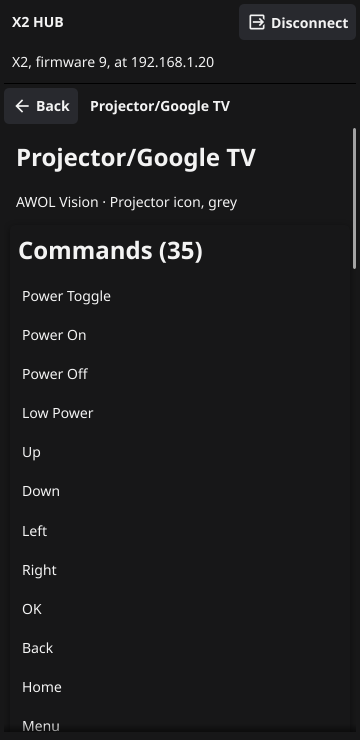
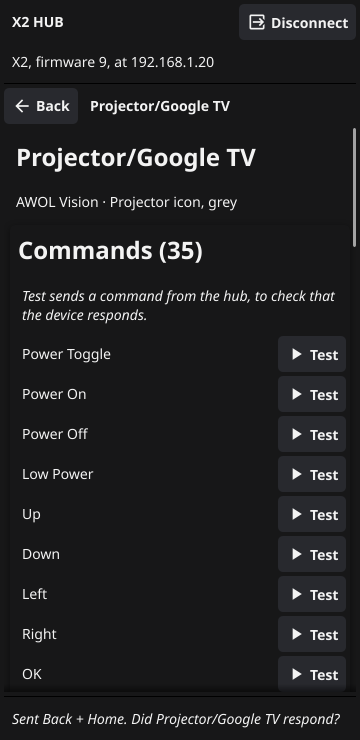
Test a device's commands: send one from the hub (#13)

diff --git a/internal/ui/detail.go b/internal/ui/detail.go
@@ -49,8 +49,8 @@ func activityView(a *profile.Activity) fyne.CanvasObject {
 }
 
 // deviceView shows a device: its commands, keys, power, inputs and
-// macros.
-func deviceView(d *profile.Device) fyne.CanvasObject {
+// macros. With send, each command has a Test button that sends it.
+func deviceView(d *profile.Device, send func(command string)) fyne.CanvasObject {
 	sub := d.Brand
 	if look := describeLook(d.Icon, d.Color); look != "" {
 		if sub != "" {
@@ -60,11 +60,22 @@ func deviceView(d *profile.Device) fyne.CanvasObject {
 	}
 	parts := []fyne.CanvasObject{heading(d.Name, sub)}
 
-	var cmds []string
+	var cmds []fyne.CanvasObject
 	for _, c := range d.Commands {
-		cmds = append(cmds, c.Name)
+		name := wrapped(c.Name)
+		if send == nil {
+			cmds = append(cmds, name)
+			continue
+		}
+		test := widget.NewButtonWithIcon("Test", theme.MediaPlayIcon(), func() { send(c.Name) })
+		cmds = append(cmds, container.NewBorder(nil, nil, nil, test, name))
 	}
-	parts = append(parts, section(fmt.Sprintf("Commands (%d)", len(cmds)), "No commands.", lines(cmds)))
+	if send != nil && len(cmds) > 0 {
+		hint := wrapped("Test sends a command from the hub, to check that the device responds.")
+		hint.TextStyle.Italic = true
+		cmds = append([]fyne.CanvasObject{hint}, cmds...)
+	}
+	parts = append(parts, section(fmt.Sprintf("Commands (%d)", len(d.Commands)), "No commands.", cmds))
 	parts = append(parts, keysSection(d.Buttons))
 
 	var power []fyne.CanvasObject

diff --git a/internal/ui/home.go b/internal/ui/home.go
@@ -256,6 +256,30 @@ func (s *browseScreen) state(r browseRow) string {
 	return ""
 }
 
+// sender sends d's commands from the hub, or is nil while d is not on
+// the hub.
+func (s *browseScreen) sender(d *profile.Device) func(string) {
+	if s.app.work.DeviceState(d) == workspace.New {
+		return nil
+	}
+	return func(command string) {
+		w, c := s.app.work, s.app.client
+		s.setStatus(true, fmt.Sprintf("Sending %s…", command))
+		s.app.async(func() {
+			ctx, cancel := context.WithTimeout(context.Background(), ConnectTimeout)
+			defer cancel()
+			err := w.Send(ctx, c, d.Name, command)
+			fyne.Do(func() {
+				if err != nil {
+					s.setStatus(false, fmt.Sprintf("Could not send %s: %v", command, err))
+					return
+				}
+				s.setStatus(false, fmt.Sprintf("Sent %s. Did %s respond?", command, d.Name))
+			})
+		})
+	}
+}
+
 // selectDevice shows the device named name.
 func (s *browseScreen) selectDevice(name string) {
 	for i, r := range s.rows {
@@ -342,7 +366,7 @@ func (s *browseScreen) content(h backend.Hub) fyne.CanvasObject {
 		case r.activity != nil:
 			s.split.show(r.activity.Name, activityView(r.activity))
 		case r.device != nil:
-			s.split.show(r.device.Name, deviceView(r.device))
+			s.split.show(r.device.Name, deviceView(r.device, s.sender(r.device)))
 		default:
 			s.list.Unselect(i)
 		}

diff --git a/internal/workspace/send_test.go b/internal/workspace/send_test.go
@@ -1,0 +1,46 @@
+package workspace
+
+import (
+	"context"
+	"errors"
+	"testing"
+
+	"github.com/brunoga/armrest/internal/demo"
+	"github.com/brunoga/sofabaton/hub"
+	"github.com/brunoga/sofabaton/hubsim"
+)
+
+func TestSend(t *testing.T) {
+	ctx := context.Background()
+	d, err := demo.Dump()
+	if err != nil {
+		t.Fatal(err)
+	}
+	m, err := d.Model()
+	if err != nil {
+		t.Fatal(err)
+	}
+	c, err := hub.Open(ctx, hubsim.Pipe(hubsim.FromModel(m)), hub.Options{})
+	if err != nil {
+		t.Fatal(err)
+	}
+	defer c.Close()
+	w, err := Read(ctx, c, nil)
+	if err != nil {
+		t.Fatal(err)
+	}
+	if err := w.Send(ctx, c, "Receiver", "Mute"); err != nil {
+		t.Fatal(err)
+	}
+	if len(m.Runs) != 1 || len(m.Runs[0].Steps) != 1 || m.Runs[0].Steps[0].Device != w.Config.Device("Receiver").ID {
+		t.Errorf("runs: %+v", m.Runs)
+	}
+	if err := w.Send(ctx, c, "Receiver", "No Such"); !errors.Is(err, ErrNotOnHub) {
+		t.Errorf("unknown command: %v", err)
+	}
+	box, _ := Templates()[0].Device("New Box")
+	_ = w.AddDevice(box)
+	if err := w.Send(ctx, c, "New Box", box.Commands[0].Name); !errors.Is(err, ErrNotOnHub) {
+		t.Errorf("new device: %v", err)
+	}
+}

diff --git a/internal/workspace/send.go b/internal/workspace/send.go
@@ -1,0 +1,34 @@
+package workspace
+
+import (
+	"context"
+	"errors"
+	"fmt"
+	"strings"
+
+	"github.com/brunoga/sofabaton/hub"
+	"github.com/brunoga/sofabaton/record"
+)
+
+// ErrNotOnHub reports a command to send that the hub does not have yet.
+var ErrNotOnHub = errors.New("this is not on the hub yet: review and apply your changes first, then test it")
+
+// Send makes the hub send a device's command now, to test it. The device
+// and command must be on the hub: Send sends what the hub has, which is
+// the command as last applied.
+func (w *Workspace) Send(ctx context.Context, c *hub.Client, device, command string) error {
+	d := w.Config.Device(device)
+	if d == nil || d.ID == 0 {
+		return ErrNotOnHub
+	}
+	cmds, err := c.Commands(ctx, d.ID)
+	if err != nil {
+		return fmt.Errorf("reading %s's commands: %w", d.Name, err)
+	}
+	for _, cmd := range cmds {
+		if strings.EqualFold(cmd.Label, command) {
+			return c.Run(ctx, d.ID, []record.Step{hub.StepFor(cmd)})
+		}
+	}
+	return ErrNotOnHub
+}

diff --git a/internal/ui/ui_test.go b/internal/ui/ui_test.go
@@ -188,8 +188,12 @@ func TestBrowse(t *testing.T) {
 	assertScreens(t, w, "activity")
 
 	l.Select(7) // Projector/Google TV
-	if got := texts(w); !strings.Contains(got, "Commands (") || !strings.Contains(got, "Power") {
+	if got := texts(w); !strings.Contains(got, "Test sends a command from the hub") || !strings.Contains(got, "Power") {
 		t.Errorf("device:\n%s", got)
+	}
+	test.Tap(button(t, w, "Test"))
+	if got := texts(w); !strings.Contains(got, ". Did Projector/Google TV respond?") {
+		t.Errorf("send:\n%s", got)
 	}
 	assertScreens(t, w, "device")
 
